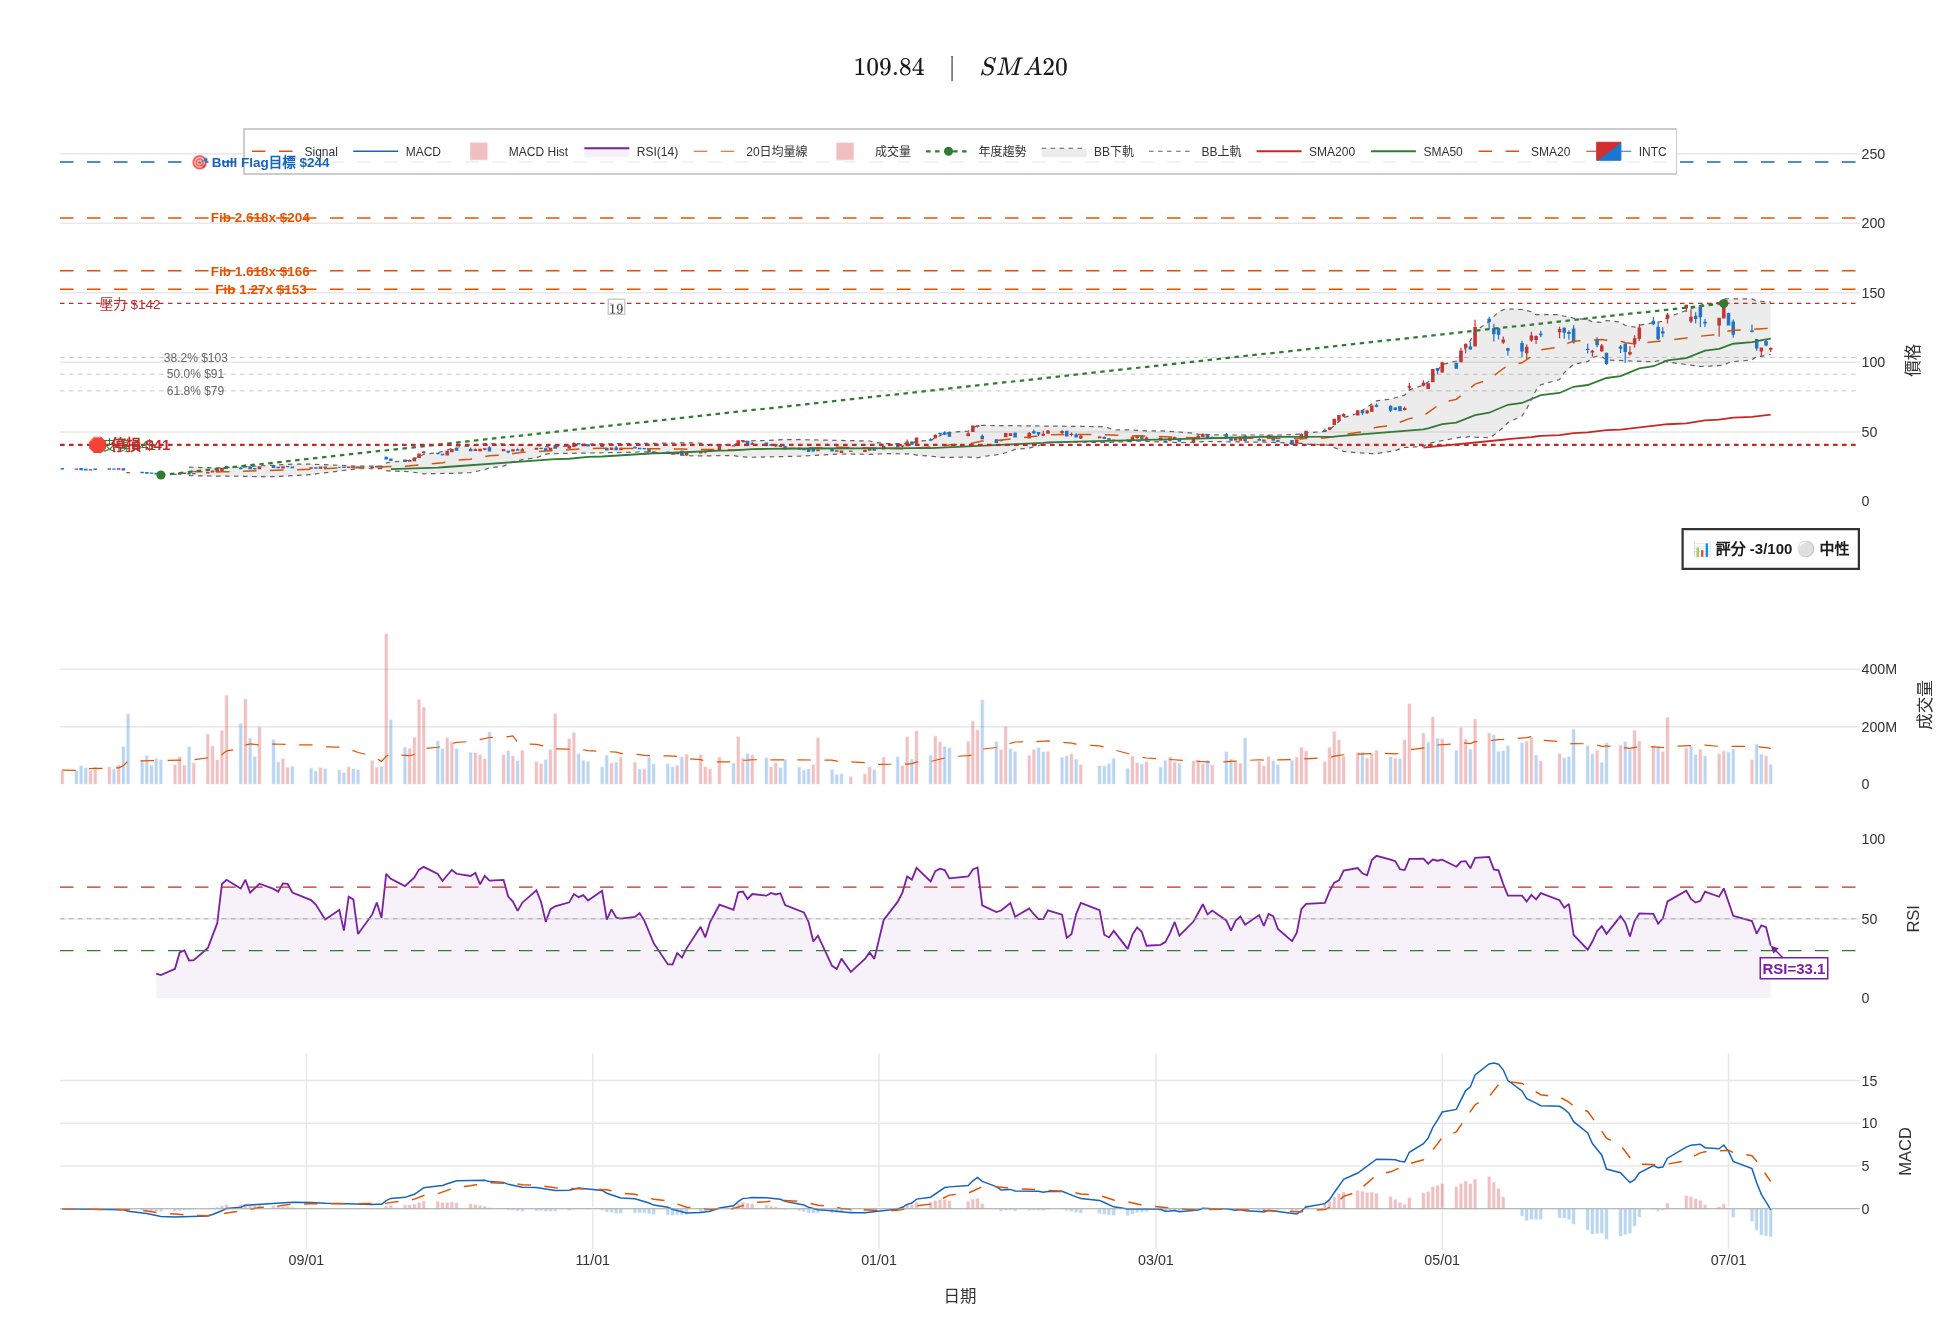
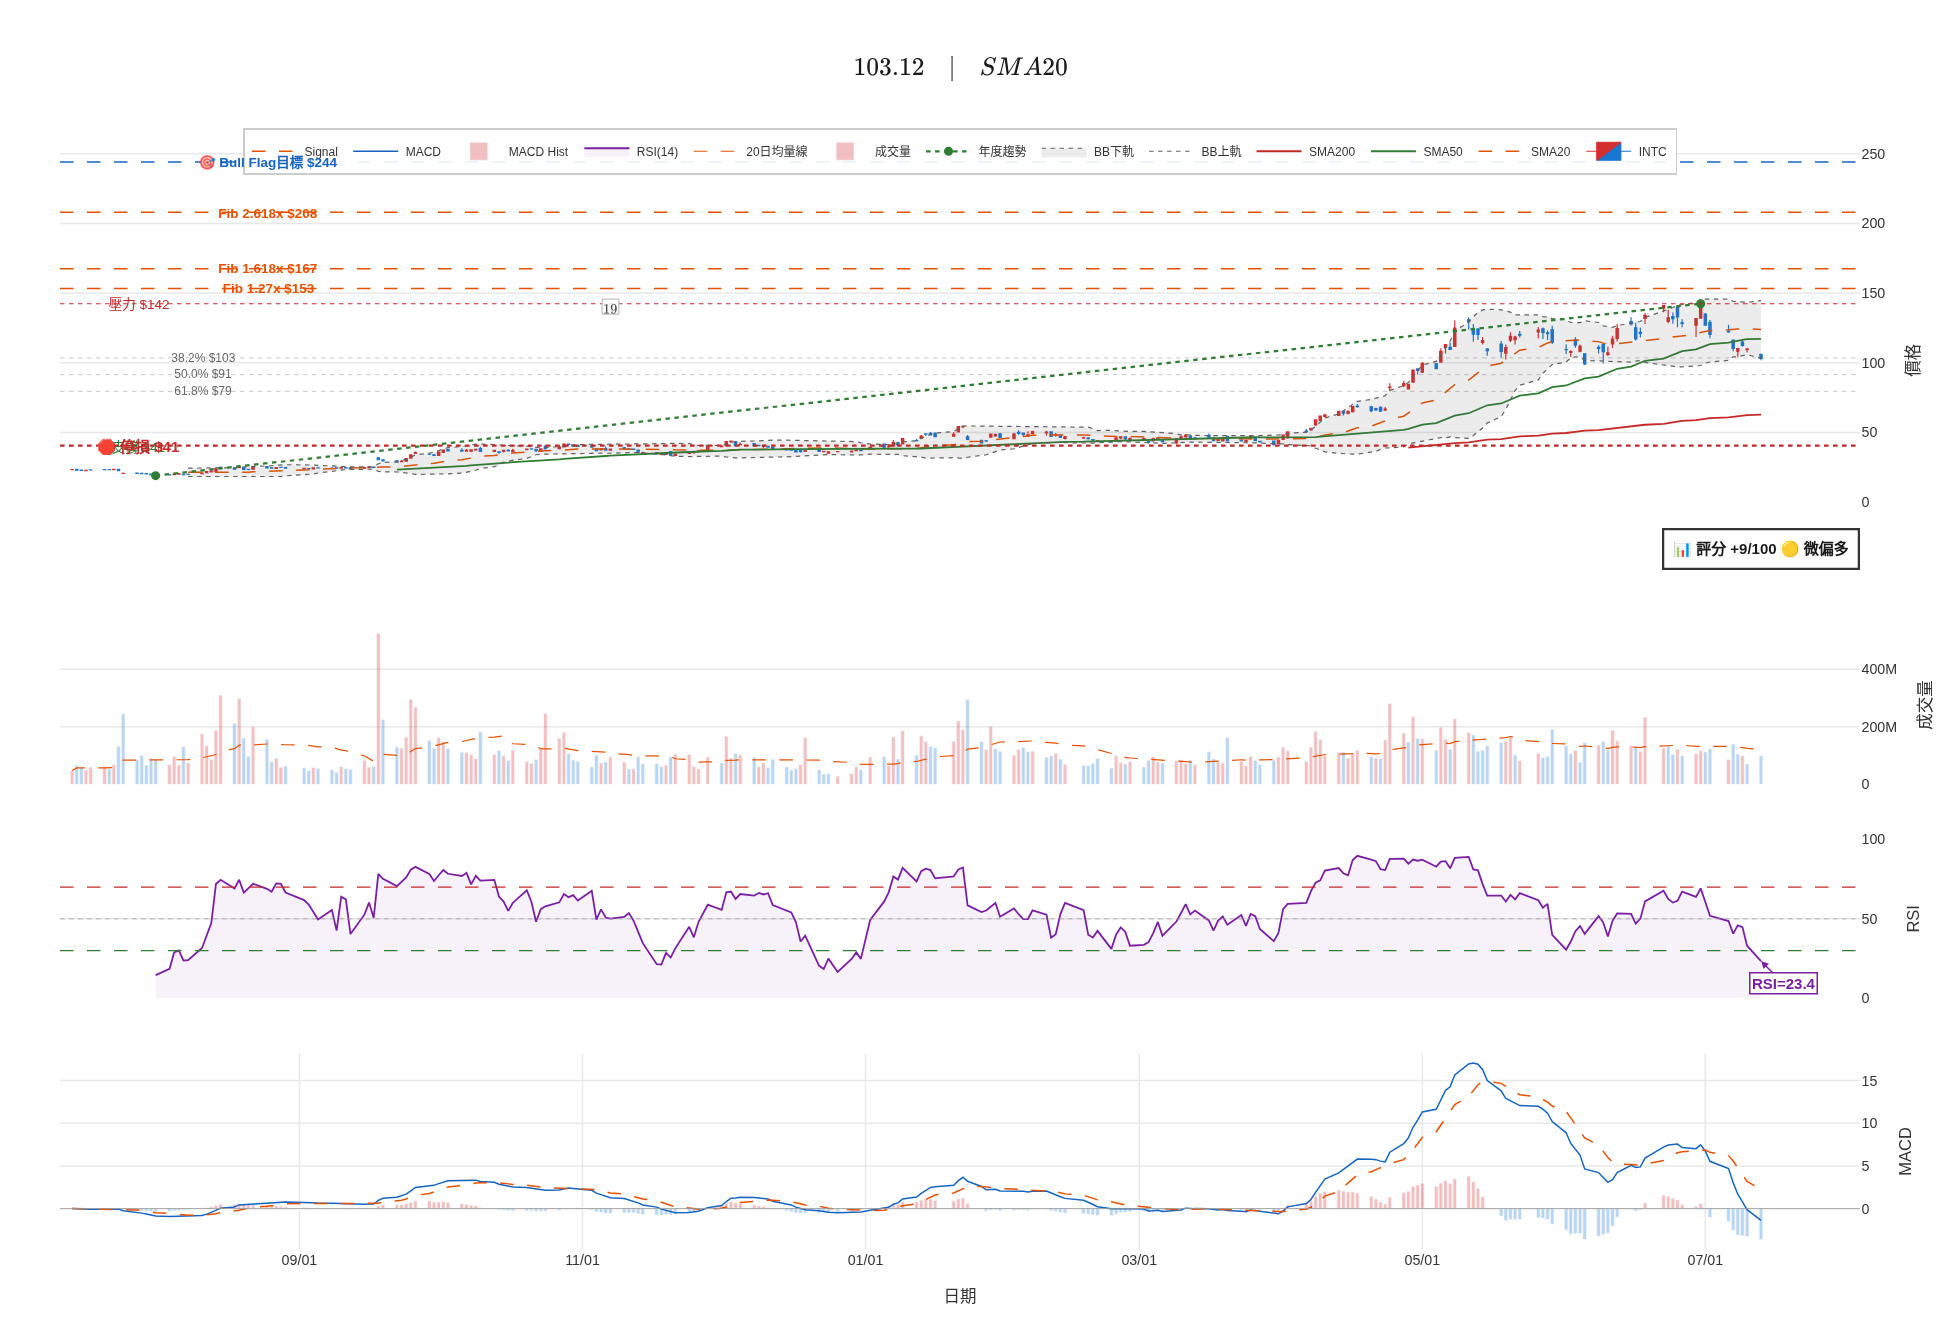
charts: 更新 2026-07-14 技術圖

diff --git a/charts/index.html b/charts/index.html
@@ -39,27 +39,27 @@ body { font-family:'Noto Sans TC',sans-serif; background:#f5f0e8; color:#1a1714;
   <a href="../">← 回首頁</a>
 </div>
 <div class="container">
-  <div class="date-badge">📅 2026/07/13 — 週一盤前</div>
+  <div class="date-badge">📅 2026/07/14 — 週二盤前</div>
   <div class="chart-grid">
     <div class="chart-card">
       <img src="dji.png" alt="道瓊工業指數">
-      <div class="info"><h3>道瓊工業指數 DJI</h3><p>52,637.01 (+0.29%) · RSI 69.9</p></div>
+      <div class="info"><h3>道瓊工業指數 DJI</h3><p>52,498.64 (-0.26%) · RSI 64.6</p></div>
     </div>
     <div class="chart-card">
       <img src="sox.png" alt="費城半導體指數">
-      <div class="info"><h3>費城半導體指數 SOX</h3><p>12,967.16 (+0.06%) · RSI 40.0</p></div>
+      <div class="info"><h3>費城半導體指數 SOX</h3><p>12,347.78 (-4.78%) · RSI 34.2</p></div>
     </div>
     <div class="chart-card">
       <img src="ixic.png" alt="納斯達克指數">
-      <div class="info"><h3>納斯達克指數 IXIC</h3><p>26,281.61 (+0.29%) · RSI 46.7</p></div>
+      <div class="info"><h3>納斯達克指數 IXIC</h3><p>25,873.18 (-1.55%) · RSI 46.0</p></div>
     </div>
     <div class="chart-card">
       <img src="tsm.png" alt="台積電 ADR">
-      <div class="info"><h3>台積電 ADR (TSM)</h3><p>$434.11 (-0.65%) · RSI 42.3</p></div>
+      <div class="info"><h3>台積電 ADR (TSM)</h3><p>$421.58 (-2.89%) · RSI 37.8</p></div>
     </div>
     <div class="chart-card">
       <img src="intc.png" alt="Intel">
-      <div class="info"><h3>Intel (INTC)</h3><p>$109.84 (-2.40%) · RSI 33.1</p></div>
+      <div class="info"><h3>Intel (INTC)</h3><p>$103.12 (-6.12%) · RSI 23.4</p></div>
     </div>
     <div class="chart-card" style="cursor:pointer;" onclick="location.href='taiex-technical.html'">
       <div style="height:160px;background:linear-gradient(135deg,#1a1a2e,#16213e);display:flex;align-items:center;justify-content:center;">
